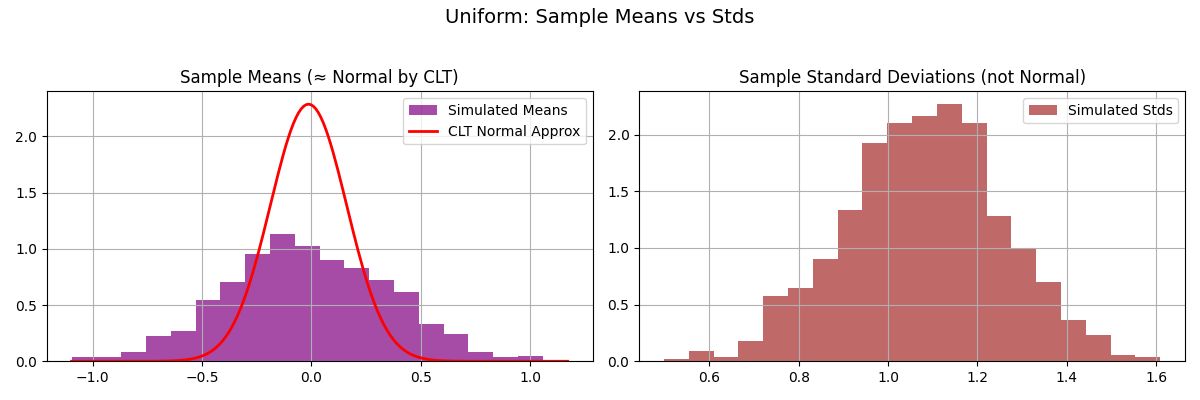
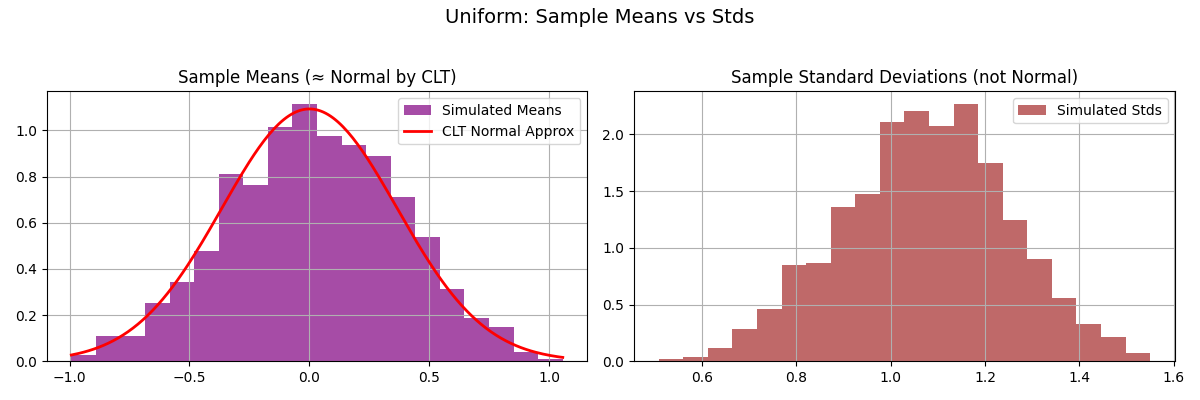
a

diff --git a/assm6_q2_student.py b/assm6_q2_student.py
@@ -2,7 +2,7 @@ import numpy as np
 import matplotlib.pyplot as plt
 from scipy.stats import norm
 
-def confidence_interval(N_samples=100, sample_size=30, true_mean=67, true_std=10, confidence=0.95):
+def confidence_interval(N_samples=100, sample_size=40, true_mean=74, true_std=3.3, confidence=0.95):
     """
     Demonstrates 95% confidence intervals for the mean.
     Parameters:
@@ -15,8 +15,8 @@ def confidence_interval(N_samples=100, sample_size=30, true_mean=67, true_std=10
     
     # WRITE_YOUR_CODE HERE TO COMPUTE THE Z VALUE
     # Z value for the two-tailed confidence interval
-    alpha = 
-    z = 
+    alpha = 1-confidence
+    z = norm.ppf(1-alpha/2)
     # this code block ends here
 
     # Store the lower and upper bounds of each CI
@@ -31,11 +31,11 @@ def confidence_interval(N_samples=100, sample_size=30, true_mean=67, true_std=10
         sample = np.random.normal(loc=true_mean, scale=true_std, size=sample_size)
 
         # WRITE_YOUR_CODE HERE TO COMPUTE SAMPLE MEAN, SAMPLE STANDARD ERROR, AND CI BOUNDS
-        sample_mean = 
-        sample_se = 
+        sample_mean = sample.mean()
+        sample_se = sample.std()
         
-        lower = 
-        upper = 
+        lower = sample_mean - z * (sample_se/np.sqrt(sample_size))
+        upper = sample_mean + z * (sample_se/np.sqrt(sample_size))
         # this code block ends here
 
         # append to CI lists        
@@ -43,7 +43,8 @@ def confidence_interval(N_samples=100, sample_size=30, true_mean=67, true_std=10
         ci_uppers.append(upper)
         
         # WRITE_YOUR_CODE HERE TO CHECK IF THE TRUE MEAN IS WITHIN THE CI, INCREMENT misses IF NOT
-        if 
+        if true_mean < lower or true_mean > upper:
+    
             misses += 1
         # this code block ends here
     
@@ -52,7 +53,7 @@ def confidence_interval(N_samples=100, sample_size=30, true_mean=67, true_std=10
     for i, (low, up) in enumerate(zip(ci_lowers, ci_uppers)):
 
         # WRITE_YOUR_CODE HERE TO cOLOR THE INTERVALS THAT MISS THE TRUE MEAN IN RED, OTHERS IN BLUE
-        color = 
+        color = "red"   if (low > true_mean or up < true_mean) else "blue"
         # this code block ends here
 
         plt.plot([low, up], [i, i], color=color, lw=2)
@@ -67,8 +68,8 @@ def confidence_interval(N_samples=100, sample_size=30, true_mean=67, true_std=10
     plt.show()
     
     # WRITE_YOUR_CODE HERE TO PRINT THE NUMBER OF MISSES AND THE PERCENTAGE
-    print(f"Out of {} intervals, {} did NOT contain the true mean.")
-    print(f"This is roughly {}%, close to the expected 5% for a 95% CI.")
+    print(f"Out of {N_samples} intervals, {misses} did NOT contain the true mean.")
+    print(f"This is roughly {misses*100/N_samples}%, close to the expected 5% for a 95% CI.")
     # this code block ends here
 
 # ================================

diff --git a/assm6_q1_student.py b/assm6_q1_student.py
@@ -130,8 +130,8 @@ def task5_mean_std(N=1000, m=10):
 
         # WRITE_YOUR_CODE HERE TO COMPUTE THEORETICAL MEAN, STD OF SAMPLE MEANS
         # theoretical CLT parameters
-        theo_mu  = means.mean()  
-        theo_std = stds.std()  
+        theo_mu  = dist.mean()
+        theo_std = np.sqrt(dist.var()/m)  
         # this code block ends here
 
         fig, axes = plt.subplots(1,2, figsize=(12,4))
